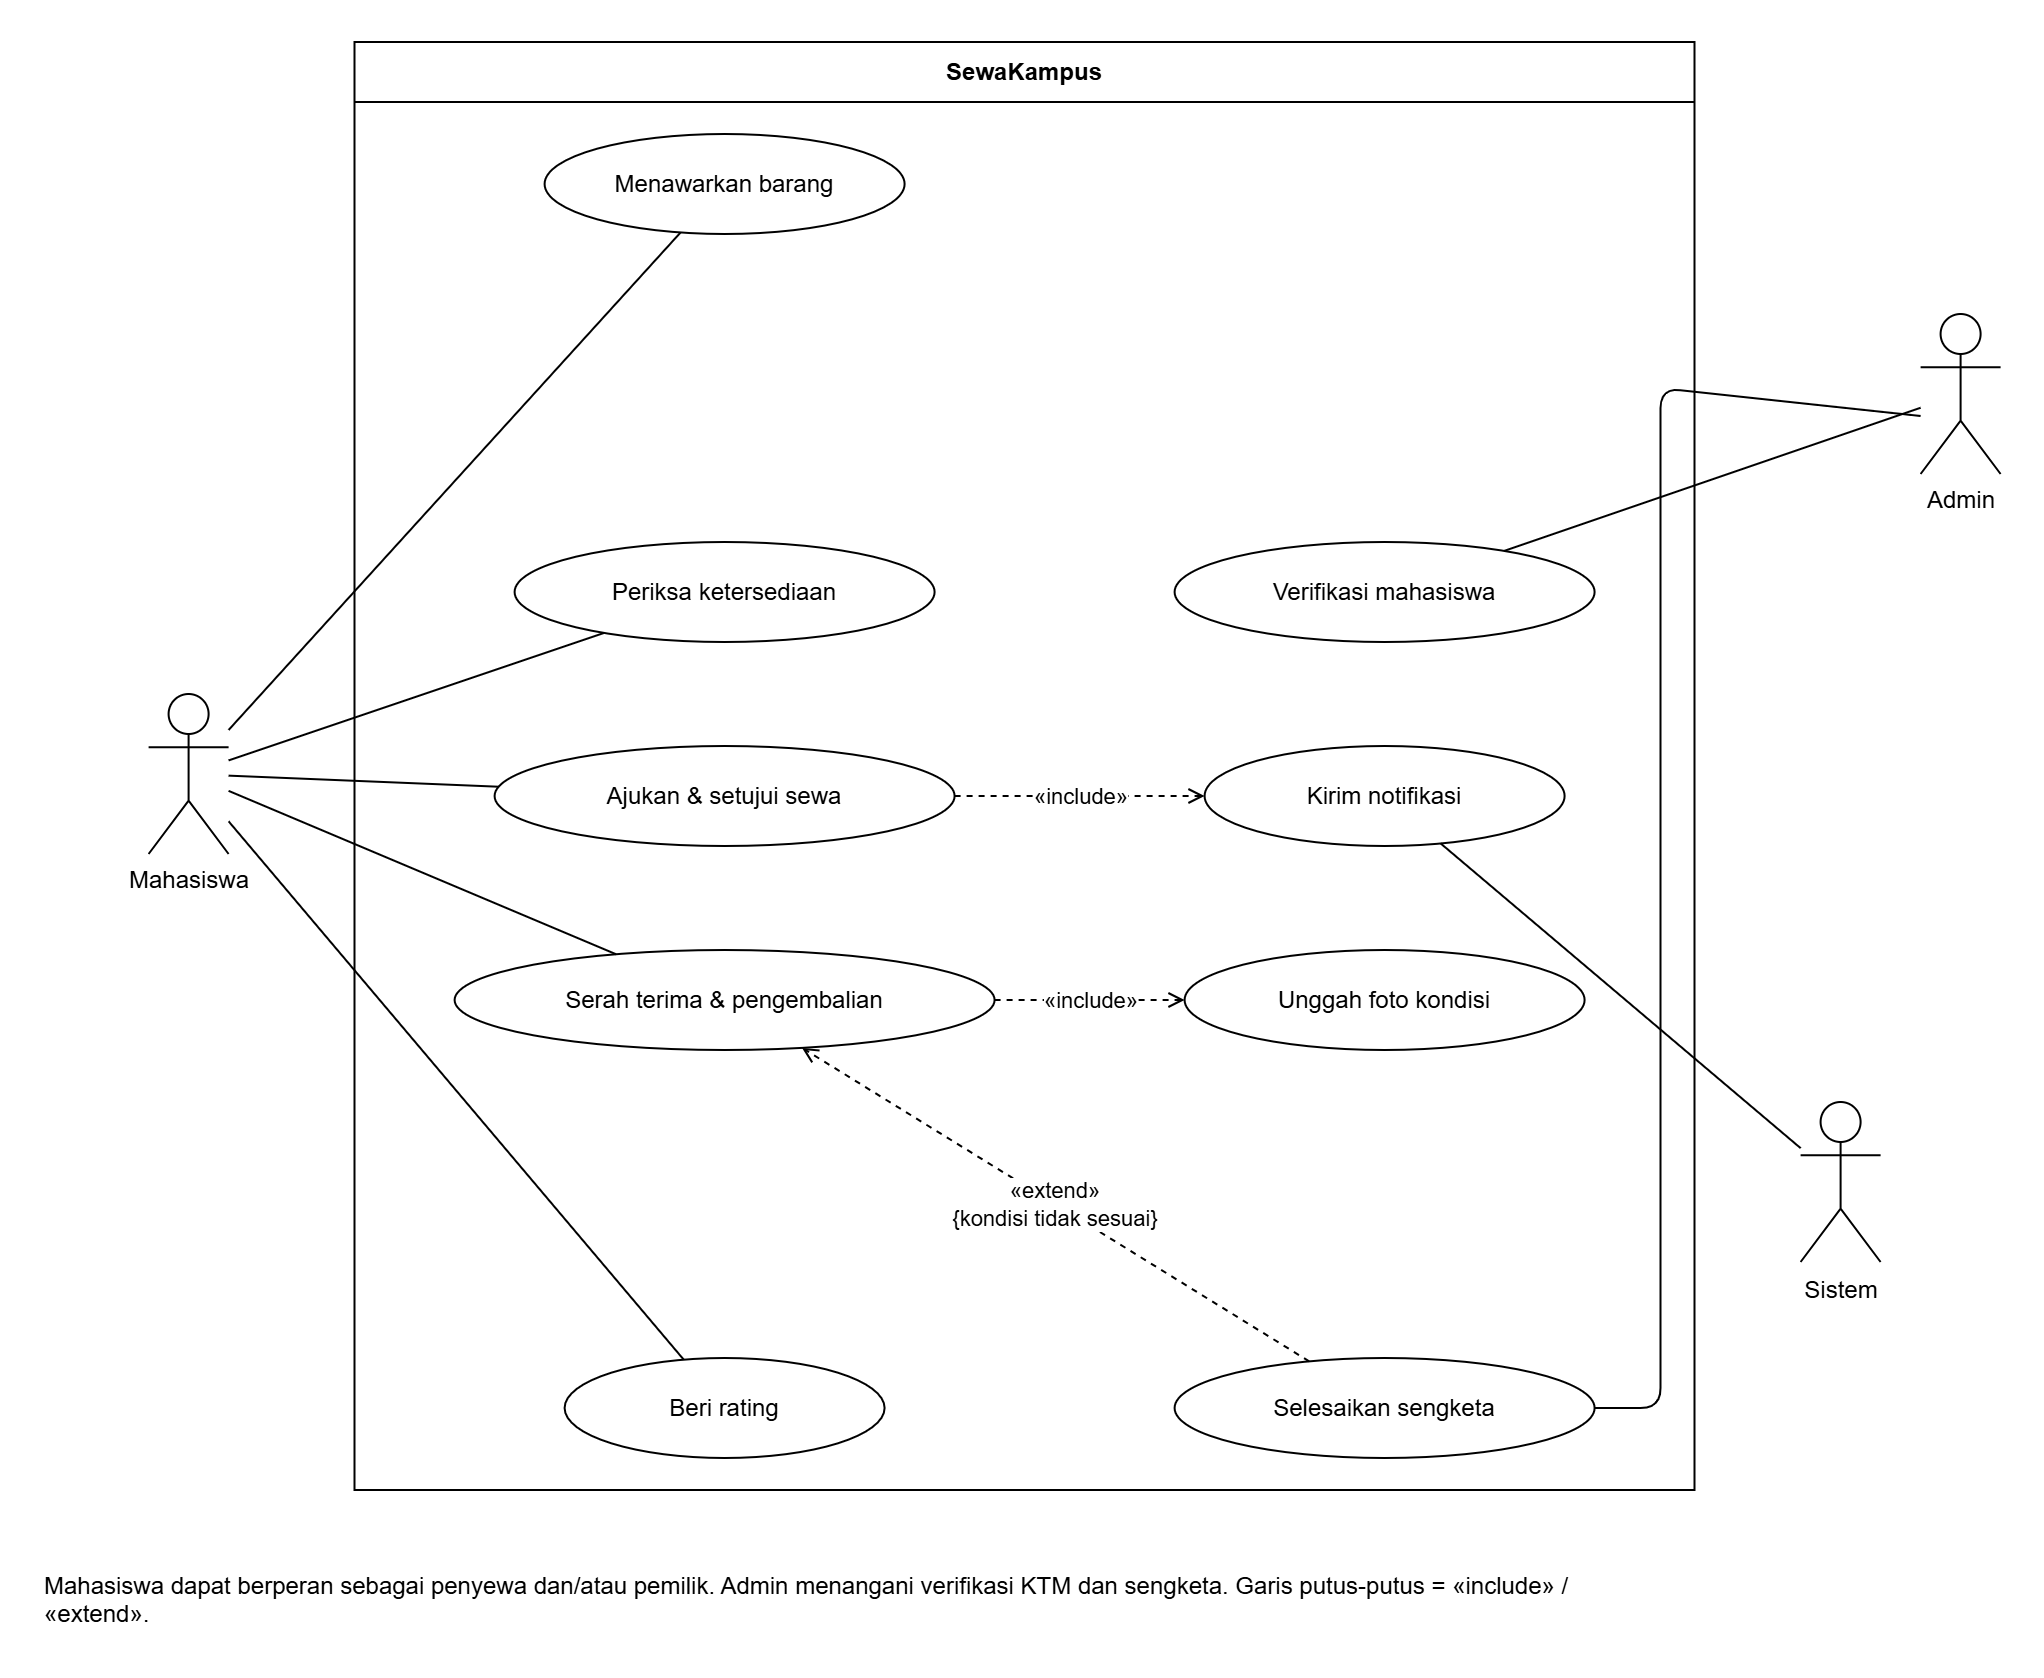
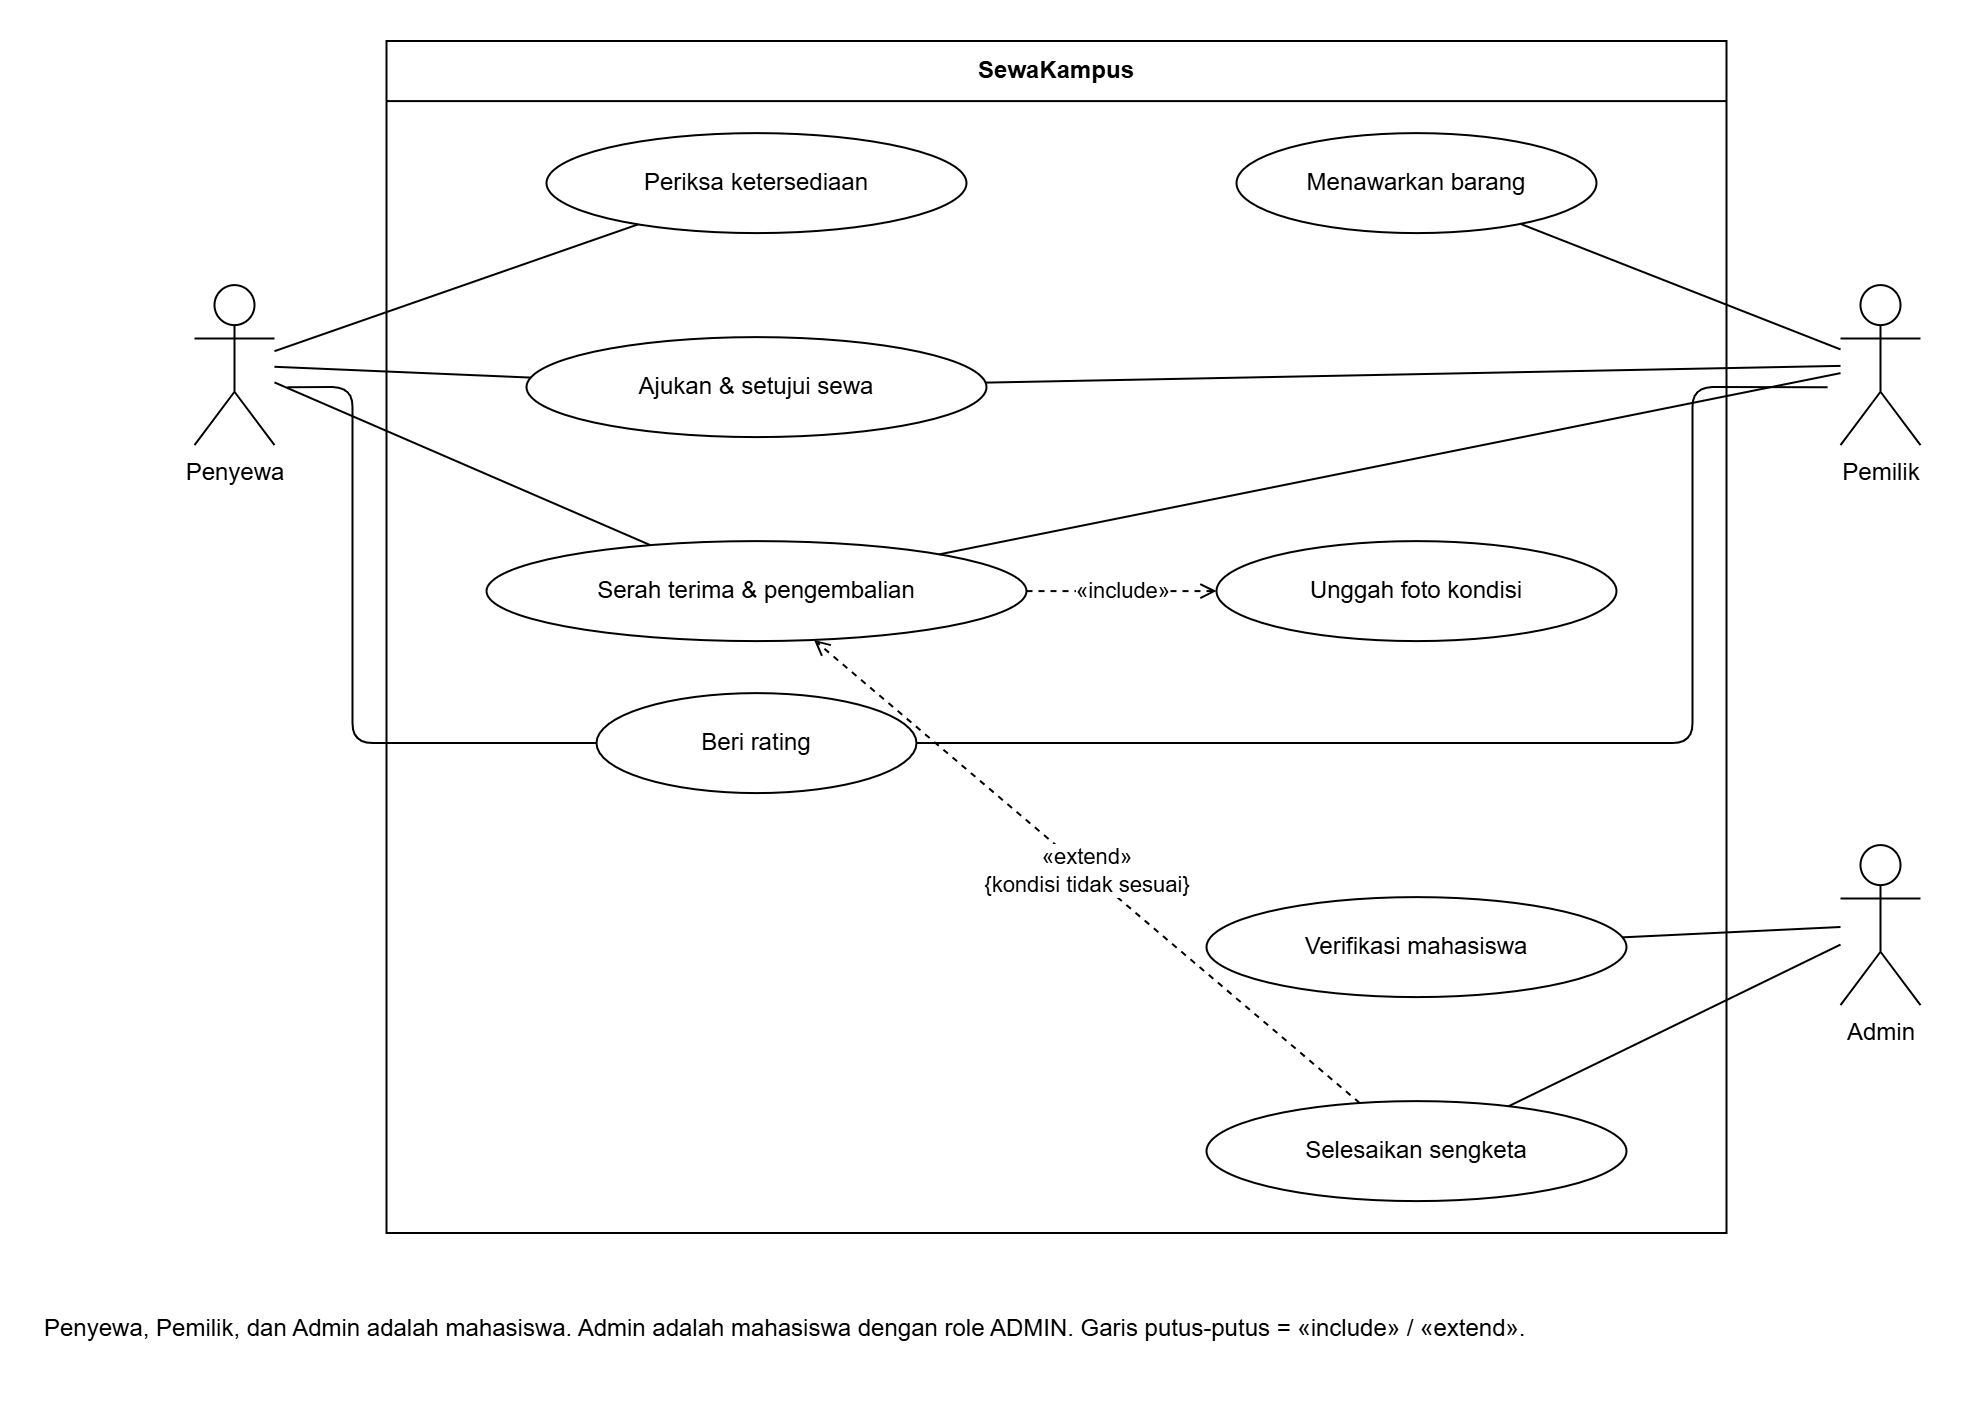
docs(p13): use Penyewa, Pemilik, and Admin actors

diff --git a/01_Business/P13-Use-Cases.md b/01_Business/P13-Use-Cases.md
@@ -2,25 +2,27 @@
 
 **Status:** Final (internal), 24 November 2026. Review silang dilewati lewat SK-021.
 **Tanggal:** 23 November 2026
-**Diagram:** `01_Business/P13-Use-Case-Diagram.drawio` + `.png` (aktor Mahasiswa dan Admin, tujuh use case)
+**Diagram:** `01_Business/P13-Use-Case-Diagram.drawio` + `.png` (aktor Penyewa, Pemilik, dan Admin; tujuh use case; tanpa aktor Sistem)
 
 ## Aktor
 
+Penyewa, Pemilik, dan Admin adalah **mahasiswa**. Admin adalah mahasiswa yang diberi role `ADMIN`; bukan staf kampus dan bukan sistem eksternal. Sistem tidak dihitung sebagai aktor: notifikasi, validasi, dan penyimpanan adalah perilaku sistem di dalam use case.
+
 | Aktor | Deskripsi |
 |---|---|
-| Mahasiswa | Pengguna terverifikasi; bisa menjadi penyewa, pemilik, atau keduanya |
-| Admin | Verifikasi KTM, moderasi listing, menangani sengketa |
-| Sistem | Penjadwal status, pengirim email, penyimpan berkas di object storage |
+| Penyewa | Mahasiswa terverifikasi yang menyewa barang |
+| Pemilik | Mahasiswa terverifikasi yang menyewakan barang |
+| Admin | Mahasiswa dengan role `ADMIN`; memverifikasi KTM, memoderasi listing, dan menangani sengketa |
 
 ## Daftar use case
 
 | ID | Nama | Must terkait | Aktor utama |
 |---|---|---|---|
-| UC-01 | Menawarkan barang (listing) | M1 | Mahasiswa pemilik |
-| UC-02 | Memeriksa ketersediaan barang | M2 | Mahasiswa penyewa |
-| UC-03 | Mengajukan dan menyetujui sewa | M3 | Penyewa dan pemilik |
-| UC-04 | Mencatat serah terima dan pengembalian | M4 | Penyewa dan pemilik |
-| UC-05 | Memberi rating dan ulasan | M5 | Penyewa dan pemilik |
+| UC-01 | Menawarkan barang (listing) | M1 | Pemilik |
+| UC-02 | Memeriksa ketersediaan barang | M2 | Penyewa |
+| UC-03 | Mengajukan dan menyetujui sewa | M3 | Penyewa dan Pemilik |
+| UC-04 | Mencatat serah terima dan pengembalian | M4 | Penyewa dan Pemilik |
+| UC-05 | Memberi rating dan ulasan | M5 | Penyewa dan Pemilik |
 | UC-06 | Memverifikasi mahasiswa | Kontrol alur | Admin |
 | UC-07 | Menyelesaikan sengketa | Kontrol alur | Admin |
 
@@ -28,7 +30,7 @@
 
 ## UC-01 Menawarkan barang
 
-**Aktor:** mahasiswa pemilik.
+**Aktor:** Pemilik (mahasiswa).
 **Prakondisi:** akun aktif dan sudah terverifikasi (UC-06).
 **Pascakondisi:** listing berstatus `ACTIVE` dan bisa ditemukan penyewa.
 
@@ -51,7 +53,7 @@
 
 ## UC-02 Memeriksa ketersediaan
 
-**Aktor:** mahasiswa penyewa.
+**Aktor:** Penyewa (mahasiswa).
 **Prakondisi:** listing berstatus `ACTIVE`.
 **Pascakondisi:** penyewa tahu tanggal yang kosong dan bisa mengajukan sewa.
 
@@ -71,7 +73,7 @@
 
 ## UC-03 Mengajukan dan menyetujui sewa
 
-**Aktor:** penyewa (mengajukan), pemilik (memutuskan).
+**Aktor:** Penyewa (mengajukan) dan Pemilik (memutuskan); keduanya mahasiswa.
 **Prakondisi:** penyewa terverifikasi, rentang tanggal kosong.
 **Pascakondisi:** booking berstatus `APPROVED` atau `REJECTED`, dan riwayat status tercatat.
 
@@ -97,7 +99,7 @@
 
 ## UC-04 Mencatat serah terima dan pengembalian
 
-**Aktor:** penyewa dan pemilik.
+**Aktor:** Penyewa dan Pemilik; keduanya mahasiswa.
 **Prakondisi:** booking `APPROVED` untuk OUT, atau `HANDED_OVER` untuk RETURN.
 **Pascakondisi:** dua catatan handover tersimpan dengan foto, booking berlanjut ke `RETURNED` lalu `COMPLETED`.
 
@@ -121,7 +123,7 @@
 
 ## UC-05 Memberi rating dan ulasan
 
-**Aktor:** penyewa dan pemilik.
+**Aktor:** Penyewa dan Pemilik; keduanya mahasiswa.
 **Prakondisi:** booking `COMPLETED`.
 **Pascakondisi:** rating tersimpan, rata-rata barang dan pengguna diperbarui.
 
@@ -143,7 +145,7 @@
 
 ## UC-06 Memverifikasi mahasiswa
 
-**Aktor:** admin.
+**Aktor:** Admin (mahasiswa dengan role `ADMIN`).
 **Prakondisi:** mahasiswa mengunggah KTM.
 **Pascakondisi:** pengajuan verifikasi berstatus `APPROVED` (akun menjadi `ACTIVE`) atau `REJECTED` dengan alasan wajib (akun tetap `PENDING_VERIFICATION` dan boleh mengajukan ulang).
 
@@ -164,7 +166,7 @@
 
 ## UC-07 Menyelesaikan sengketa
 
-**Aktor:** admin.
+**Aktor:** Admin (mahasiswa dengan role `ADMIN`).
 **Prakondisi:** ada booking dengan masalah kerusakan, keterlambatan, atau barang tidak sesuai.
 **Pascakondisi:** sengketa `RESOLVED` atau `REJECTED`, deposit diputuskan.
 

diff --git a/06_Governance/P13-GAP-DECISIONS.md b/06_Governance/P13-GAP-DECISIONS.md
@@ -65,7 +65,7 @@ Ringkasan efek keputusan resmi. Isi lengkap, alasan, dan pemilik ada di `DECISIO
 G-12 sampai G-15 ditutup pada rekonsiliasi 23 November 2026 dengan bukti file atau commit, bukan dengan asumsi.
 G-02 dan G-11 ditutup pada 23 November 2026 melalui commit `55e9fca`. G-03, G-16, dan G-19 ditutup pada 24 November 2026 setelah prototipe diverifikasi ulang, form listing diperbaiki, dan ERD 17 relasi digambar. G-06 ditutup 24 November 2026 sebagai catatan progres asinkron, bukan notulen rapat. G-05 dan G-08 ditutup pada tanggal yang sama.
 
-Pada 24 November 2026 PR14-06/07 dibuat pada branch `feature/pr14-local-login-role` sesuai CR-003/SK-020. Feature test lokal 16/16 (69 assertion) dan smoke test browser nyata Keycloak 26 berhasil untuk STUDENT/ADMIN; role silang ditolak 403 dan logout STUDENT kembali ke halaman login. Belum ada review independen, belum merge, dan Gate 1 tetap belum dinilai. Implementasi Must tidak dimulai.
+Pada 24 November 2026 PR14-06/07 dibuat pada branch `feature/pr14-local-login-role` sesuai CR-003/SK-020. Feature test lokal 16/16 (70 assertion) dan smoke test browser nyata Keycloak 26 berhasil untuk STUDENT/ADMIN; role silang ditolak 403 dan logout STUDENT kembali ke halaman login. Belum ada review independen, belum merge, dan Gate 1 tetap belum dinilai. Implementasi Must tidak dimulai.
 
 ## Konflik dokumen
 

diff --git a/07_Evidence/P13-Work-Board.md b/07_Evidence/P13-Work-Board.md
@@ -50,7 +50,7 @@ Status **Selesai (internal)** berarti artefak lengkap dan diterima pemilik; revi
 | DDL dan seed | PR14-04, PR14-05 | Selesai (internal) | `08_Source/database/sql/001_init.sql`, `seed.sql`, `07_Evidence/PR14-04-DDL-Run-Log.md` |
 | Jalankan DDL di database kosong | PR14-04 | Selesai (internal) | `07_Evidence/PR14-04-DDL-Run-Log.md` (MySQL 8.0.43) |
 | Struktur aplikasi dan ADR | P13-09 | Selesai (internal) | `03_Application/P13-App-Structure.md`, `06_Governance/ADR-002-application-structure.md` |
-| Login lokal dan role | PR14-06 | Selesai (internal) | `08_Source/` (Laravel + Keycloak OIDC/PKCE + middleware role); `07_Evidence/PR14-06-Local-Login-Role-Run-Log.md` (16 test/69 assertion dan smoke test browser lokal STUDENT/ADMIN) |
+| Login lokal dan role | PR14-06 | Selesai (internal) | `08_Source/` (Laravel + Keycloak OIDC/PKCE + middleware role); `07_Evidence/PR14-06-Local-Login-Role-Run-Log.md` (16 test/70 assertion dan smoke test browser lokal STUDENT/ADMIN) |
 | README aplikasi lokal | PR14-07 | Selesai (internal) | `08_Source/README.md`; bukti run di `07_Evidence/PR14-06-Local-Login-Role-Run-Log.md` |
 
 ## K-04 — Mahesa: teknologi, risiko, dan catatan

diff --git a/00_Vision/P13-Vision-v1.0.md b/00_Vision/P13-Vision-v1.0.md
@@ -52,12 +52,14 @@ Belum ada baseline. Ketiga angka baru bisa dinilai setelah ada data pilot, sehin
 
 ## Pemangku kepentingan
 
+Penyewa, pemilik, dan admin platform adalah mahasiswa. Admin adalah mahasiswa yang diberi role `ADMIN`, bukan staf kampus atau sistem eksternal.
+
 | Pemangku kepentingan | Kepentingan utama | Peran dalam MVP |
 |---|---|---|
 | Mahasiswa penyewa | Barang murah, tersedia, terpercaya | Pengguna utama |
 | Mahasiswa pemilik | Barang menghasilkan uang dan aman | Pengguna utama |
-| Admin platform | Transaksi aman, listing rapi, sengketa tertangani | Verifikasi, moderasi |
-| Pihak kampus | Mahasiswa terverifikasi, aktivitas terkendali | Verifikasi KTM, izin titik serah terima |
+| Admin platform (mahasiswa dengan role `ADMIN`) | Transaksi aman, listing rapi, sengketa tertangani | Verifikasi, moderasi |
+| Pihak kampus | Mahasiswa terverifikasi, aktivitas terkendali | Kebijakan verifikasi KTM dan izin titik serah terima |
 | Mitra pembayaran | Transaksi dan deposit berjalan | Fase lanjutan, belum ada |
 | Regulator | Perlindungan data dan konsumen | Kepatuhan, bukan aktor sistem |
 

diff --git a/04_Technology/P13-Security-Baseline.md b/04_Technology/P13-Security-Baseline.md
@@ -1,6 +1,6 @@
 # Security Baseline — SewaKampus
 
-**Status:** Draf. Kontrol yang direncanakan, belum diuji.
+**Status:** Final (internal). Kontrol yang direncanakan, belum diuji.
 **Tanggal:** 23 November 2026
 **Rujukan:** OWASP API Security Top 10 (2023), OWASP ASVS ringkas, dan tag `x-owasp-api-top10` pada `03_Application/openapi.yaml`.
 
@@ -9,7 +9,7 @@
 - Keycloak 26 sebagai identity provider, protokol OpenID Connect Authorization Code Flow dengan PKCE.
 - Laravel menjadi Backend for Frontend: menyimpan sesi, tidak menyimpan token di browser.
 - Nginx memvalidasi JWT memakai JWKS sebelum meneruskan permintaan.
-- Admin wajib MFA. Mahasiswa boleh tanpa MFA pada MVP.
+- Admin (mahasiswa dengan role `ADMIN`) wajib MFA. Mahasiswa biasa boleh tanpa MFA pada MVP.
 - KTM tetap menjadi fallback bila IdP kampus belum tersedia.
 - Sesi berakhir setelah 30 menit tanpa aktivitas; refresh token dirotasi.
 - Login gagal 5 kali per IP per menit dibatasi.

diff --git a/06_Governance/P13-SESSION-PR14-AUTH-HANDOFF.md b/06_Governance/P13-SESSION-PR14-AUTH-HANDOFF.md
@@ -10,7 +10,7 @@
 
 - Laravel 11 login Keycloak OIDC/PKCE, callback, role middleware, route dashboard STUDENT/ADMIN, logout, halaman login/dashboard, dan README lokal.
 - File uji di `08_Source/tests/Feature/` dan dokumentasi keputusan di `06_Governance/ADR-003-local-oidc-login-role.md`.
-- Verifikasi terbaru: `DB_PORT=3311 php artisan test` — 16 passed, 69 assertions. Smoke test browser Keycloak 26 login STUDENT dan ADMIN berhasil; ADMIN ke `/student/dashboard` mendapat 403; logout STUDENT kembali ke `/login`.
+- Verifikasi terbaru: `DB_PORT=3311 php artisan test` — 16 passed, 70 assertions. Smoke test browser Keycloak 26 login STUDENT dan ADMIN berhasil; ADMIN ke `/student/dashboard` mendapat 403; logout STUDENT kembali ke `/login`.
 - `.env` dan secret Keycloak hanya lokal/ignored; jangan ditambahkan ke Git. Akun demo dibuat untuk uji lokal saja, bukan kredensial kampus nyata.
 
 ## Batas dan langkah berikut

diff --git a/docs/superpowers/plans/2026-11-24-pr14-local-login-role.md b/docs/superpowers/plans/2026-11-24-pr14-local-login-role.md
@@ -92,7 +92,7 @@
 - [x] Document Keycloak 26 manual realm/client setup using OIDC Authorization Code + PKCE and exact redirect URI `http://127.0.0.1:8000/auth/keycloak/callback`; use environment variables for client secret.
 - [x] Document import of `001_init.sql` and `seed.sql`, then `composer install`, `.env` creation, `php artisan key:generate`, and `php artisan serve`.
 - [x] Complete a local end-to-end smoke run with MySQL 8.0.43 and Keycloak 26; record outputs and platform prerequisites in `07_Evidence/PR14-06-Local-Login-Role-Run-Log.md`.
-- [x] Re-run `php artisan test` after documentation/config updates; all 16 tests pass (69 assertions).
+- [x] Re-run `php artisan test` after documentation/config updates; all 16 tests pass (70 assertions).
 
 ### Task 4: Evidence and deliverable status
 

diff --git a/06_Governance/P13-Traceability-Matrix.md b/06_Governance/P13-Traceability-Matrix.md
@@ -1,6 +1,6 @@
 # Traceability Matrix — SewaKampus P13
 
-**Status:** Draf. Lima baris, kolom use case, story, tabel, endpoint, dan layar sudah terisi. Kolom layar mengacu pada prototipe FigCraft `03_Application/ux/SewaKampus-High-Fidelity.figcraft`.
+**Status:** Final (internal), 24 November 2026. Lima baris, kolom use case, story, tabel, endpoint, dan layar sudah terisi. Kolom layar mengacu pada prototipe FigCraft `03_Application/ux/SewaKampus-High-Fidelity.figcraft`.
 **Tanggal:** 23 November 2026
 
 Format mengikuti TXT hlm. 17: kebutuhan → use case → tabel → layar. Kolom endpoint dan status ditambahkan sebagai bukti.

diff --git a/04_Technology/P13-Topology-As-Is.md b/04_Technology/P13-Topology-As-Is.md
@@ -43,7 +43,7 @@ laptop / ponsel                       laptop / ponsel
 | Pembayaran | Transfer atau e-wallet pribadi; deposit tidak tercatat sistem | Deposit simulasi di MVP, payment gateway di luar MVP |
 | Serah terima | Tatap muka di kampus; tidak ada foto kondisi baku | Vision §Masalah |
 | Reputasi | Tidak ada rating atau riwayat transaksi | Vision §Masalah |
-| Admin | Belum ada admin platform; verifikasi KTM belum berjalan | UC-06 masih rancangan |
+| Admin | Mahasiswa dengan role `ADMIN`; verifikasi KTM dan moderasi belum berjalan | UC-06 dan UC-07 masih rancangan |
 
 ## 3. Yang belum diukur dan mengapa
 

diff --git a/07_Evidence/PR14-01-UAT-Partner-Plan.md b/07_Evidence/PR14-01-UAT-Partner-Plan.md
@@ -34,7 +34,7 @@ Nama dan tanggal tidak diisi sekarang karena belum ada konfirmasi. Mengisinya be
 |---|---|---|
 | Penyewa | Mahasiswa yang pernah menyewa barang lewat grup chat | 1 |
 | Pemilik | Mahasiswa yang pernah menyewakan barang | 1 |
-| Admin | Mahasiswa yang memahami verifikasi KTM | 1 |
+| Admin | Mahasiswa dengan role `ADMIN` yang memahami verifikasi KTM | 1 |
 
 Jika hanya dua mahasiswa yang tersedia, satu orang boleh berperan sebagai penyewa sekaligus pemilik, tetapi peran admin tetap orang lain. Jumlah minimal tetap tiga.
 

diff --git a/01_Business/P13-User-Stories.md b/01_Business/P13-User-Stories.md
@@ -1,6 +1,6 @@
 # User Story dan Acceptance Criteria — SewaKampus P13
 
-**Status:** Draf. Delapan story, diturunkan dari lima Must.
+**Status:** Final (internal), 24 November 2026. Delapan story, diturunkan dari lima Must. Review silang dilewati (SK-021).
 **Tanggal:** 23 November 2026
 
 Setiap story memakai format "Sebagai … saya ingin … agar …", dengan kriteria penerimaan yang bisa diuji. Kriteria ditulis sebagai daftar centang; satu kriteria yang gagal berarti story belum selesai.

diff --git a/02_Data/P13-Data-Dictionary.md b/02_Data/P13-Data-Dictionary.md
@@ -1,6 +1,6 @@
 # Data Dictionary — SewaKampus
 
-**Status:** Draf. Disusun dari tabel 3.6, 3.7, dan 3.8 laporan Progres 12, lalu diperiksa terhadap kontrak API.
+**Status:** Final (internal), 24 November 2026. Disusun dari tabel 3.6, 3.7, dan 3.8 laporan Progres 12, lalu diperiksa terhadap kontrak API.
 **Tanggal:** 23 November 2026
 **Sumber asli:** `LAPORAN/Progres Pertemuan 12 - Kelompok 1 - SewaKampus.docx` bagian 3.4.1.4.
 
